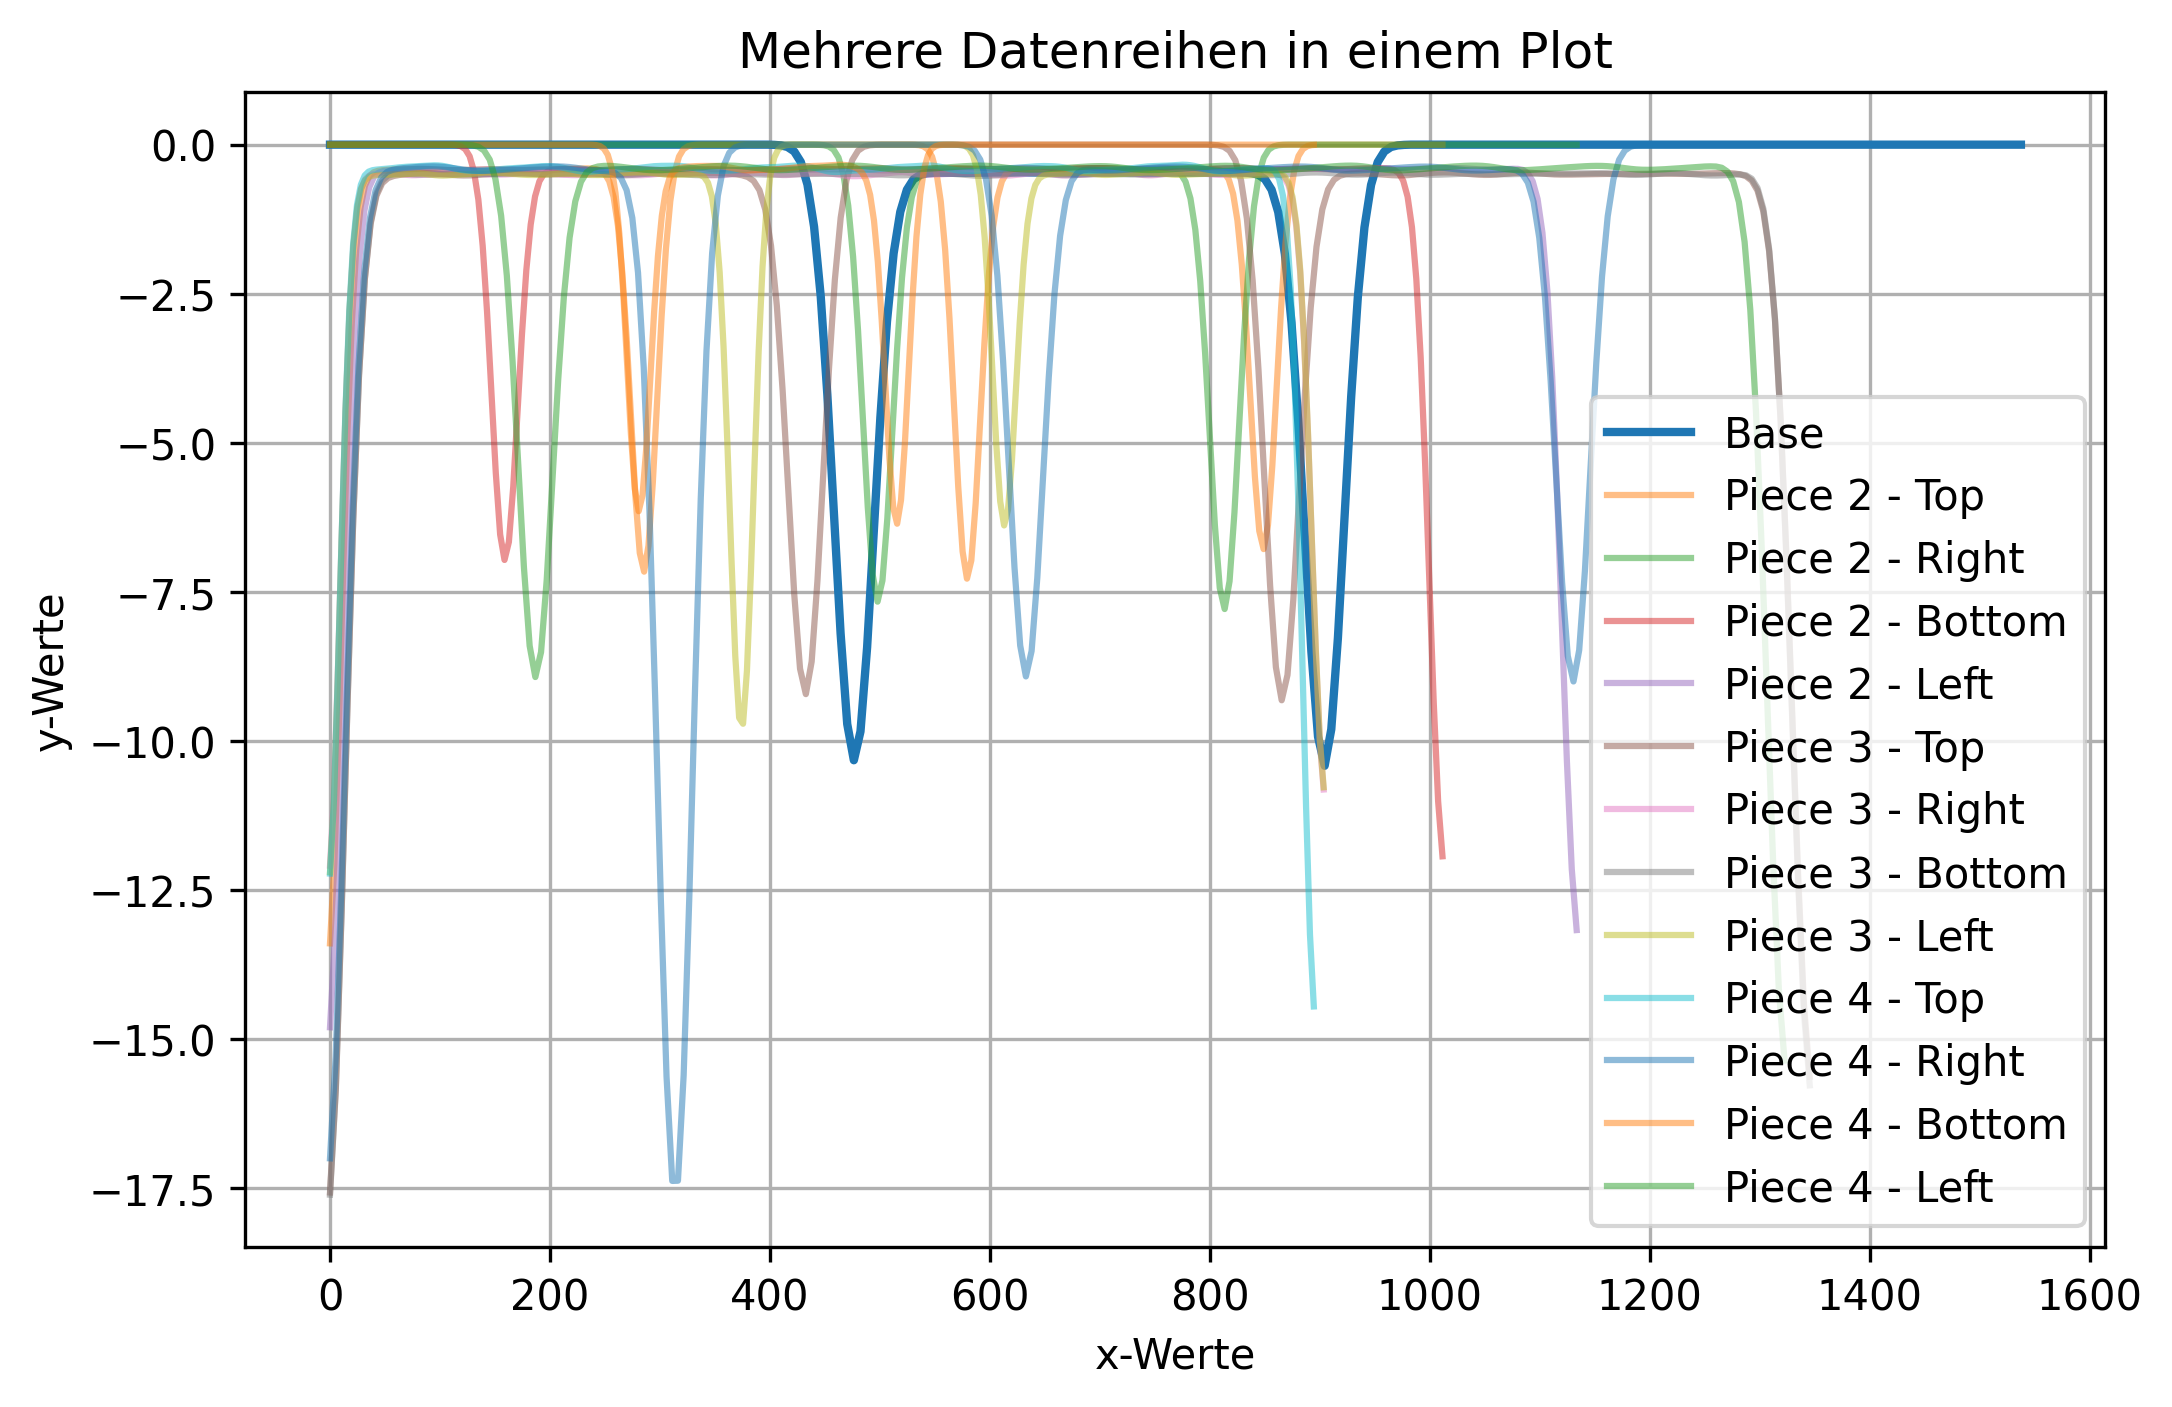
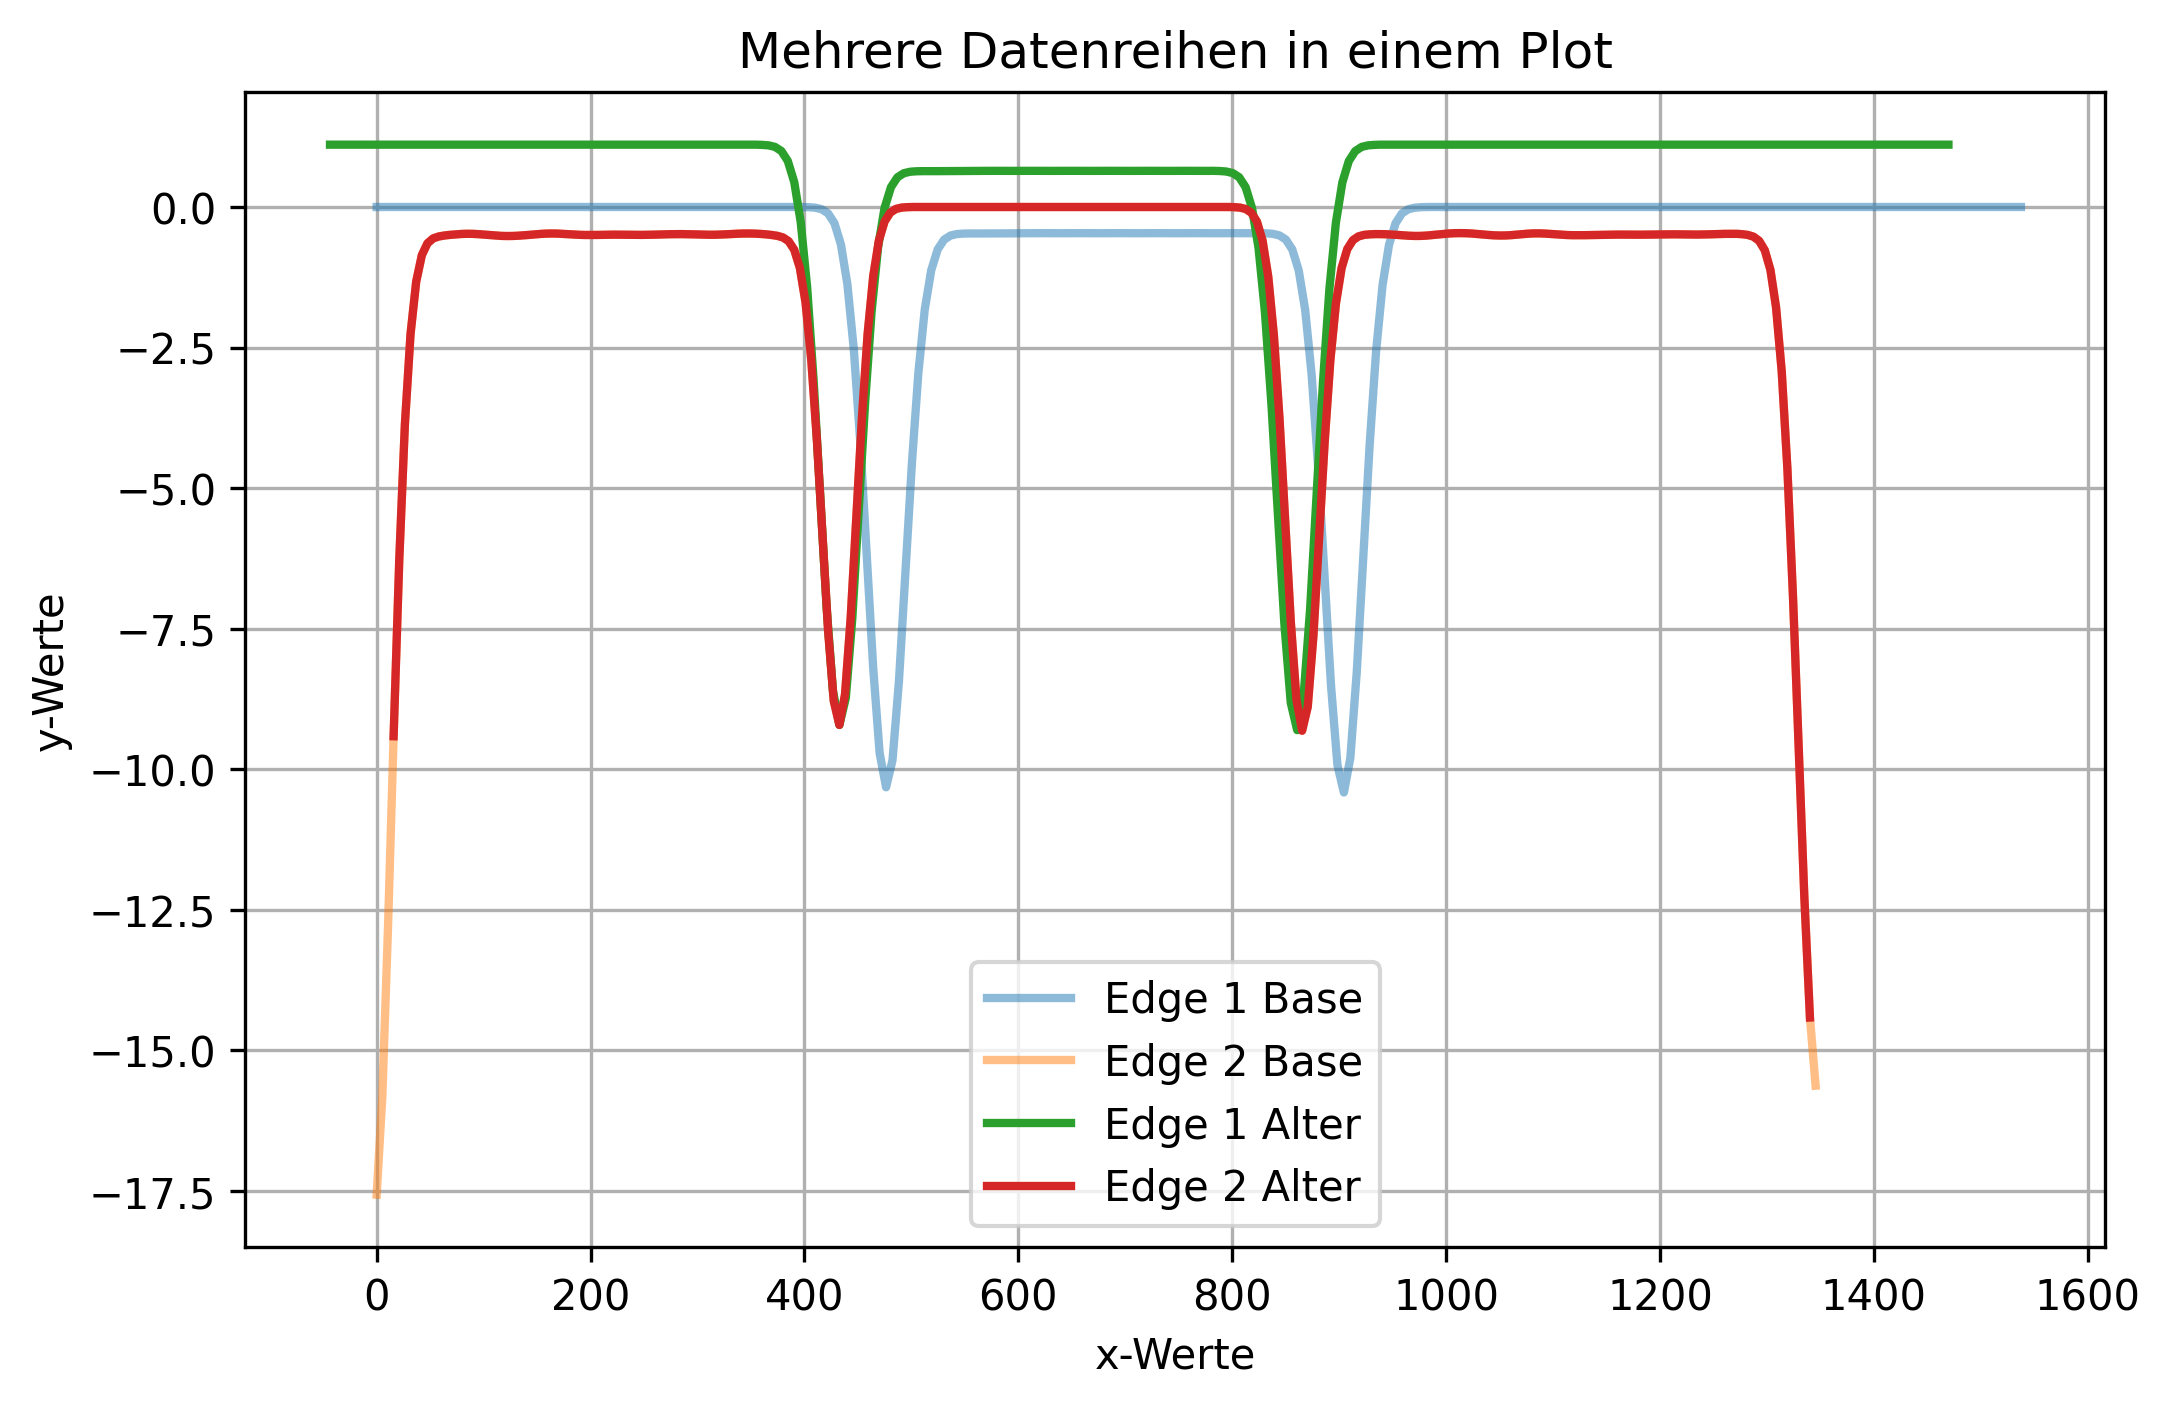
Function: Edge comparison with basic offset implemented

diff --git a/src/component/edge.py b/src/component/edge.py
@@ -113,6 +113,23 @@ class Edge:
         integral: float = sum(abs(value) * seg_length for value in self.get_signature)
         return integral
 
+    def _get_off_set_between_signatures(
+        self, other: Edge
+    ) -> tuple[int, tuple[float, float]]:
+        """Get the offset (index difference) between the middle left most\n
+        local extrema (max or min) in the signatures of this edge and\n
+        another edge."""
+        self_index, self_value = self.get_local_middle_most_extrema()
+        other_index, other_value = other.get_local_middle_most_extrema()
+
+        index_offset: int = other_index - self_index
+        value_offset: tuple[float, float] = (
+            other_value[0] - self_value[0],
+            other_value[1] - self_value[1],
+        )
+
+        return (index_offset, value_offset)
+
     def get_local_middle_most_extrema(self) -> tuple[int, tuple[float, float]]:
         """Get the index and value of the middle left most local extrema (max or min) in the signature."""
         length: int = len(self._signature)
@@ -134,15 +151,16 @@ class Edge:
         while 1 <= index < length - 1:
             # check if next value is at least 5% bigger or further to the left
             if (
-                abs(y[index]) >= abs(curr_extrema_value)
+                abs(y[index]) * 1.04 >= abs(curr_extrema_value)
                 and index < curr_extrema_index
                 or abs(y[index]) >= abs(curr_extrema_value) * 1.05
             ):
                 curr_extrema_index = index
                 curr_extrema_value = y[index]
+                # print(index)
 
             # index flickering
-            if i < 0:
+            if i <= 0:
                 i = -i + 1
             else:
                 i = -i
@@ -151,10 +169,9 @@ class Edge:
             index = mid_index + i
 
             # exit loop if the found extrema is larger than the distance to the edge
-            if (
-                left_bound + abs(curr_extrema_value) <= x[index]
-                or right_bound - abs(curr_extrema_value) >= x[index]
-            ):
+            if (left_bound + abs(curr_extrema_value)) ** 2 >= x[index] or (
+                right_bound - abs(curr_extrema_value)
+            ) ** 2 <= x[index]:
                 break
 
         return (curr_extrema_index, (x[curr_extrema_index], curr_extrema_value))
@@ -168,16 +185,27 @@ class Edge:
                 "Signatures must be of the same length to compute similarity."
             )
 
+        index_offset, value_offset = self._get_off_set_between_signatures(other)
+        n: int = len(self.get_signature) - index_offset
+
+        print("index_offset", index_offset)
+        print("value_offset", value_offset)
+
         mean_integral: float = (self.get_integral() + other.get_integral()) / 2.0
         mean_seg_length: float = (
             self.get_segment_length + other.get_segment_length
         ) / 2.0
 
         # simple similarity measure: inverse of mean absolute difference
-        sum_diffs = sum(
-            abs(a - b) * mean_seg_length
-            for a, b in zip(self.get_signature, other.get_signature)
-        )
+        diffs = [
+            abs(a - b + value_offset[1]) * mean_seg_length
+            for a, b in zip(
+                self.get_signature[index_offset : n - 1],
+                other.get_signature[0 : n - index_offset - 1],
+            )
+        ]
+        print(diffs)
+        sum_diffs = sum(diffs)
         mean_diff = sum_diffs / mean_integral
         similarity = max(0.0, 1.0 - mean_diff)
         return similarity

diff --git a/src/match_edges.py b/src/match_edges.py
@@ -54,12 +54,32 @@ def main():
 
     x1, y1 = Edge1.get_plotvalues()
 
-    y2 = Edge2.get_signature
+    x2, y2 = Edge2.get_plotvalues()
     # y3 = [25, 20, 15, 10, 5, 0]
 
     print(Edge1.get_local_middle_most_extrema())
+    print(Edge2.get_local_middle_most_extrema())
 
-    # Plot erstellen
+    plt.figure(figsize=(8, 5))
+    plt.plot(x1, y1, label="Edge 1 Base", linewidth=2, alpha=0.5)
+    plt.plot(x2, y2, label="Edge 2 Base", linewidth=2, alpha=0.5)
+
+    index_offset, value_offset = Edge1._get_off_set_between_signatures(Edge2)
+
+    plt.plot(
+        [a + value_offset[0] for a in x1[0 : -(index_offset + 1)]],
+        [b + value_offset[1] for b in y1[0 : -(index_offset + 1)]],
+        label="Edge 1 Alter",
+        linewidth=2,
+    )
+    plt.plot(
+        x2[index_offset:-1],
+        y2[index_offset:-1],
+        label="Edge 2 Alter",
+        linewidth=2,
+    )
+
+    """# Plot erstellen
     plt.figure(figsize=(8, 5))  # Größe des Plots (optional)
 
     # Mehrere Linien plotten
@@ -72,7 +92,7 @@ def main():
             for name in names:
                 temp_edge: Edge = temp_piece.get_edges[name]
                 temp_x, temp_y = temp_edge.get_plotvalues()
-                plt.plot(temp_x, temp_y, label=f"Piece {i} - {name}", alpha=0.5)
+                plt.plot(temp_x, temp_y, label=f"Piece {i} - {name}", alpha=0.5)"""
 
     # Achsenbeschriftungen und Titel
     plt.xlabel("x-Werte")
